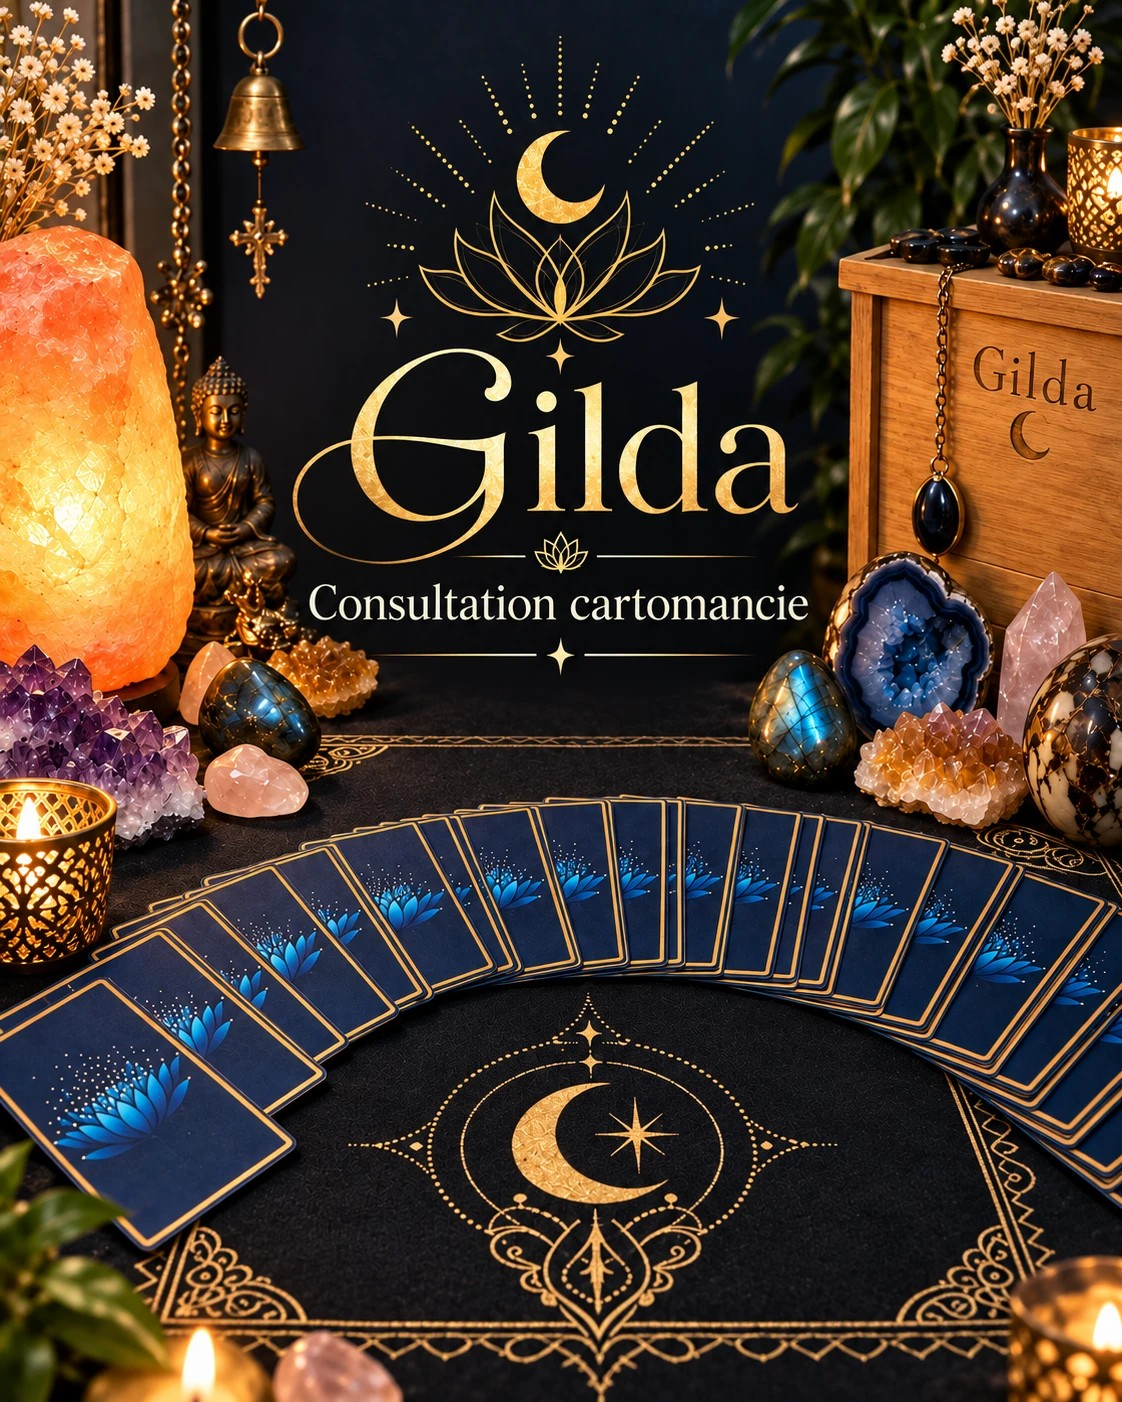
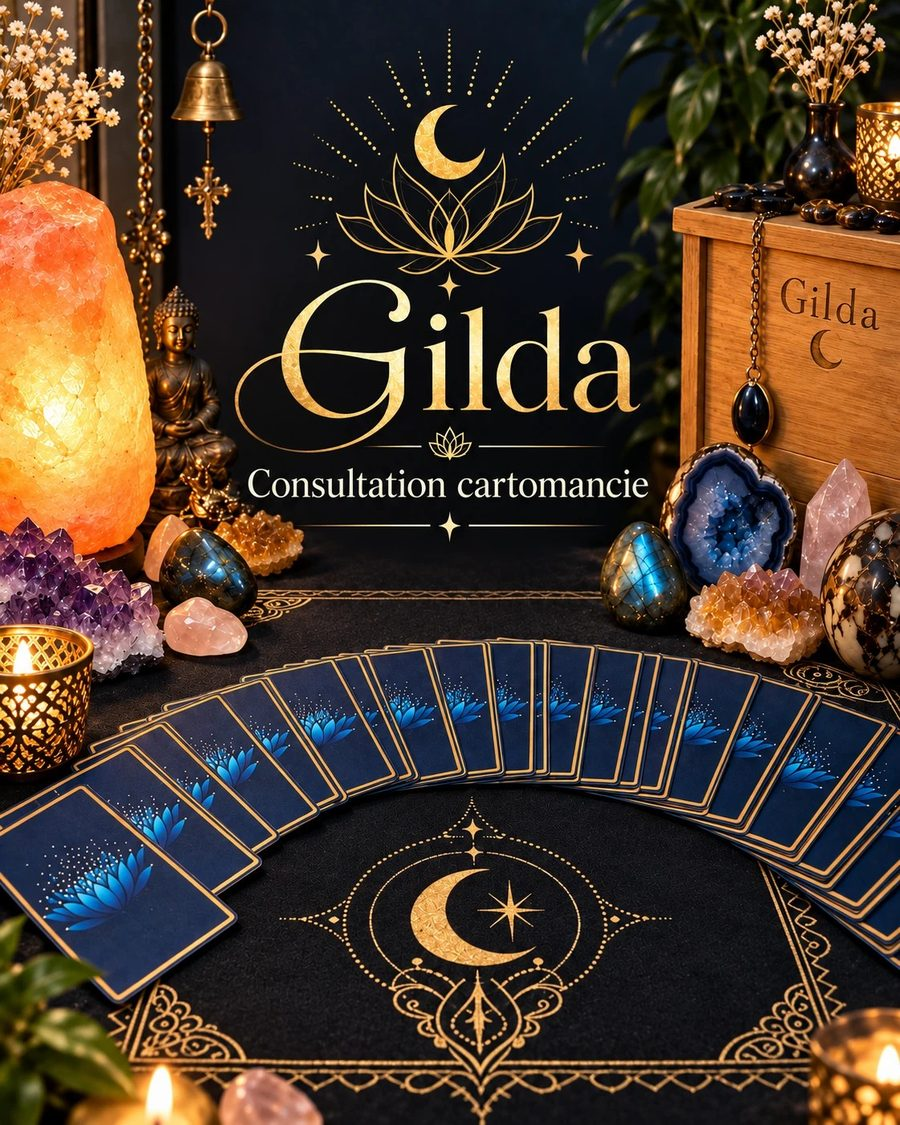
perf: cut page weight ~60%, lazy-load MAX, fix sitemap/SEO, add error boundary
Images (same paths and formats, resized to ~2-2.5x their largest rendered
size, replaced only when smaller; PNG palette only when PSNR >= 40 dB):
- guardian avatar 1024px/1.79 MB shown at 64-100px on every page -> 256px/128 KB
- footer/formation logo 1254px/310 KB -> 512px/65 KB; header symbol -> 500px/65 KB
- amandine portrait was an MPO camera file (1.27 MB) -> 900px JPEG/132 KB
- also maitre logo, oracle cover, sebastien, gilda, aurelie, Echo des Fees
Mobile page weight drops ~60% on every route (home 5.0 MB -> 1.9 MB).

ChronoSphere MAX was statically imported into the main bundle for every
visitor; it is now lazy-loaded like the other product routes (main bundle
131 KB -> 113 KB gzip).

SEO: add route metadata for /chronosphere-max and /pro (they showed the home
title), and build the sitemap from the practitioner data so every published
profile and MAX are listed (4 of 8 profiles were missing).

Reliability: a render error in one page blanked the whole site. Wrap the page
and the account widget in AppErrorBoundary with a recovery screen. Add
`npm run smoke`, which renders every public route of dist/ in Chromium and
fails on uncaught or boundary-caught errors; it catches this morning's
/chronosphere blank page, which the 273 source-level tests missed.

Claude-Session: https://claude.ai/code/session_01MWA2BeD79SJBEmY3bPZiT7

diff --git a/src/components/AppErrorBoundary.jsx b/src/components/AppErrorBoundary.jsx
@@ -1,0 +1,42 @@
+import { Component } from 'react'
+
+function CrashNotice() {
+  return (
+    <div data-app-crash className="min-h-screen bg-cream px-6 py-24 text-center font-georgia text-deep">
+      <p className="text-xs uppercase tracking-[0.2em] text-gold">MediumIA</p>
+      <h1 className="mt-4 text-3xl font-medium">Cette page n’a pas pu s’afficher.</h1>
+      <p className="mx-auto mt-4 max-w-md text-sm leading-relaxed text-mist">
+        Un incident technique empêche son chargement. Rechargez la page ; si le problème persiste, revenez à l’accueil.
+      </p>
+      <div className="mt-8 flex flex-col items-center justify-center gap-3 sm:flex-row">
+        <button type="button" onClick={() => window.location.reload()} className="rounded-lg bg-deep px-6 py-3 text-sm font-bold text-gold">
+          Recharger la page
+        </button>
+        <a href="/" className="rounded-lg border border-gold/45 px-6 py-3 text-sm font-bold text-deep">
+          Retour à l’accueil
+        </a>
+      </div>
+    </div>
+  )
+}
+
+// A render error in one page or widget must not blank the whole site.
+export default class AppErrorBoundary extends Component {
+  constructor(props) {
+    super(props)
+    this.state = { failed: false }
+  }
+
+  static getDerivedStateFromError() {
+    return { failed: true }
+  }
+
+  componentDidCatch(error) {
+    console.error('[MediumIA] render error:', error)
+  }
+
+  render() {
+    if (!this.state.failed) return this.props.children
+    return this.props.silent ? null : <CrashNotice />
+  }
+}

diff --git a/src/main.jsx b/src/main.jsx
@@ -6,6 +6,7 @@ import ConferenceLivePage from './components/ConferenceLivePage.jsx'
 import ConferenceCockpitPage from './components/ConferenceCockpitPage.jsx'
 import ConferenceRehearsalTokenPage from './components/ConferenceRehearsalTokenPage.jsx'
 import GlobalAccount from './components/GlobalAccount.jsx'
+import AppErrorBoundary from './components/AppErrorBoundary.jsx'
 
 const pathname = window.location.pathname
 const isConferenceLiveRoute = pathname.startsWith('/live/')
@@ -19,7 +20,7 @@ if (isConferenceRehearsalRoute) page = <ConferenceRehearsalTokenPage />
 
 createRoot(document.getElementById('root')).render(
   <StrictMode>
-    {page}
-    <GlobalAccount />
+    <AppErrorBoundary>{page}</AppErrorBoundary>
+    <AppErrorBoundary silent><GlobalAccount /></AppErrorBoundary>
   </StrictMode>,
 )

diff --git a/tests/performanceMeasurement.test.js b/tests/performanceMeasurement.test.js
@@ -32,6 +32,9 @@ test('heavy product routes are lazy-loaded behind Suspense', async () => {
   assert.match(app, /const OraclePage = lazy\(\(\) => import\('\.\/components\/OraclePage'\)\)/)
   assert.match(app, /const FormationPage = lazy\(\(\) => import\('\.\/components\/FormationPage'\)\)/)
   assert.doesNotMatch(app, /import ChronospherePage from '\.\/components\/ChronospherePage'/)
+  assert.match(app, /const ChronosphereMaxPage = lazy\(\(\) => import\('\.\/components\/ChronosphereMaxPage'\)\)/)
+  assert.doesNotMatch(app, /import ChronosphereMaxPage from '\.\/components\/ChronosphereMaxPage'/)
+  assert.match(app, /view === 'chronosphere-max'\) return <DeferredRoute><ChronosphereMaxPage/)
   assert.match(app, /function DeferredRoute/)
 })
 

diff --git a/tests/mobileSeo.test.js b/tests/mobileSeo.test.js
@@ -32,3 +32,13 @@ test('robots and sitemap expose public doors without private API or cancellation
   assert.doesNotMatch(sitemap, /\/api\//)
   assert.doesNotMatch(sitemap, /\/rdv\/annuler/)
 })
+
+test('sitemap lists ChronoSphère MAX and every published practitioner profile', async () => {
+  const sitemap = read('public/sitemap.xml')
+  const { reseauPractitioners } = await import('../src/data/reseauPractitioners.js')
+  assert.match(sitemap, /<loc>https:\/\/mediumia\.fr\/chronosphere-max<\/loc>/)
+  assert.ok(reseauPractitioners.length > 0)
+  for (const { id } of reseauPractitioners) {
+    assert.match(sitemap, new RegExp(`<loc>https://mediumia\\.fr/reseau/${id}</loc>`), `missing /reseau/${id}`)
+  }
+})

diff --git a/tests/routeSeoCro.test.js b/tests/routeSeoCro.test.js
@@ -10,6 +10,8 @@ test('public routes receive dedicated client-side metadata and canonical URLs', 
   assert.match(app, /ChronoSphère 999 — Cycles, lignes de temps & thème astral \| MediumIA/)
   assert.match(app, /Réseau MediumIA — Trouver un praticien/)
   assert.match(app, /Conférences MediumIA — Rencontres et directs/)
+  assert.match(app, /'chronosphere-max': \{\n    title: 'ChronoSphère MAX — /)
+  assert.match(app, /  pro: \{\n    title: 'MediumIA Pro — /)
   assert.match(app, /reseauPractitioners\.find/)
   assert.match(app, /canonical\.setAttribute\('href', canonicalUrl\)/)
   assert.match(app, /applyRouteMeta\(view\)/)
